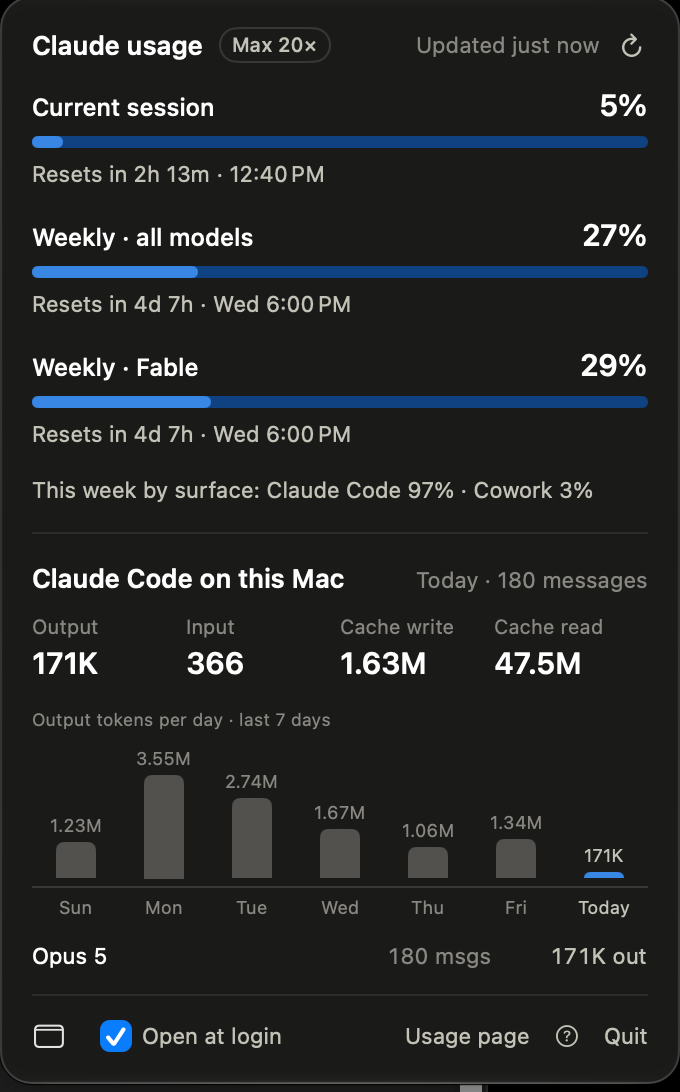
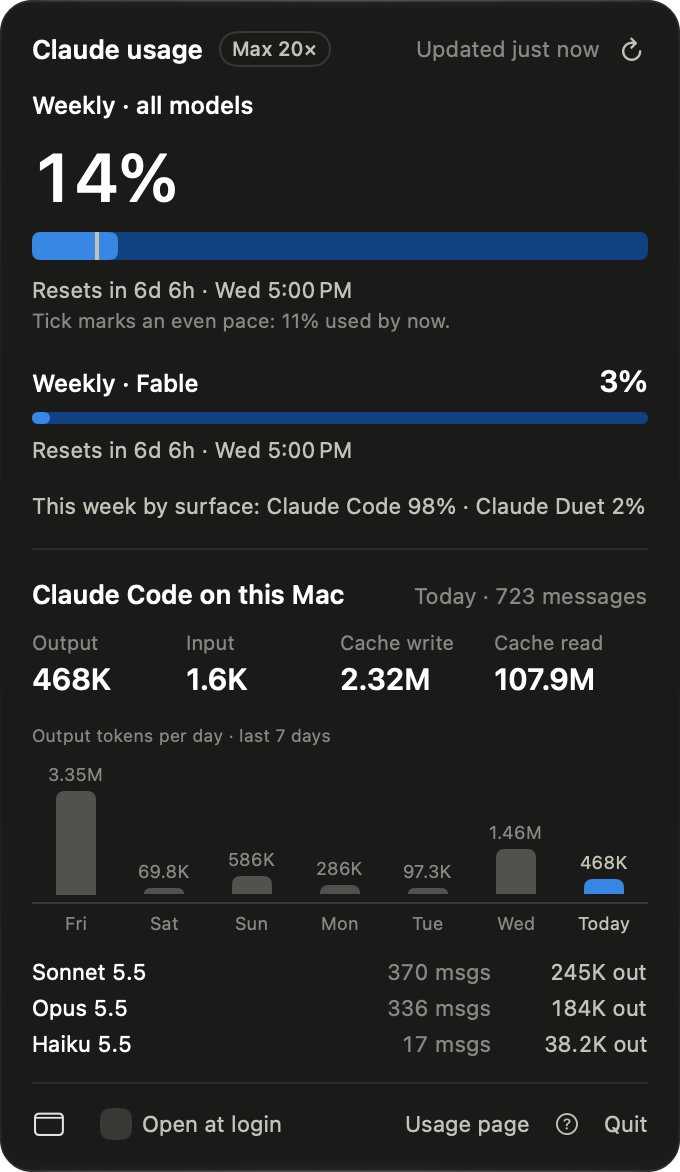
Harden token handling, logging and CI; add tests; fix early-week projection; refresh screenshots (#4)
* Harden token handling, logging and CI; add unit tests

- Validate a token (printable ASCII, no whitespace, <= 4 KB) before it can
  reach an Authorization header, for both pasted and Keychain tokens.
- Create the log owner-only (0600), tighten an existing one at launch, and
  serialize writes so concurrent writers can't interleave.
- Add Scripts/test.sh and Tests/main.swift: 48 checks over the usage maths,
  formatting, API decoding, severity fallbacks and token validation.
- CI: run the tests, build with -warnings-as-errors, assert the hardened
  runtime and absence of entitlements, pin actions to commit SHAs, and stop
  persisting the checkout credential.
- Replace deprecated Text + Text (macOS 26) so the build is warning-free.

* Hold the pace projection until a quarter of the week has passed; refresh screenshots

At 11% of the window elapsed, 14% used projected to 127% and warned "on track
to hit the limit before reset". A one-day burst says nothing about the week,
so the projection now starts at 25% elapsed; the even-pace tick still shows.

Screenshots in docs/ are recaptured from the running app with the weekly layout.

* CI: match the hardened-runtime flag for ad-hoc and Developer ID signatures

CI builds ad-hoc, where codesign prints flags=0x10002(adhoc,runtime); the
exact-string check only matched Developer ID builds and failed the job.

---------

diff --git a/Tests/main.swift b/Tests/main.swift
@@ -1,0 +1,115 @@
+import Foundation
+
+// Minimal assertion runner: top-level code, so no XCTest or package manager is needed.
+// Each failure is printed with its line; any failure makes the process exit non-zero.
+var failures = 0
+var checks = 0
+
+func expect(_ condition: @autoclosure () -> Bool, _ message: String = "", line: Int = #line) {
+    checks += 1
+    if !condition() {
+        failures += 1
+        print("FAIL line \(line): \(message)")
+    }
+}
+
+func limit(_ kind: String = "weekly_all", percent: Double, resetsIn: TimeInterval?, now: Date) -> PlanLimit {
+    PlanLimit(kind: kind, percent: percent, severity: nil,
+              resetsAt: resetsIn.map { now.addingTimeInterval($0) }, scope: nil)
+}
+
+let now = Date(timeIntervalSince1970: 1_800_000_000)
+let day: TimeInterval = 86_400
+
+// MARK: Token validation — nothing malformed may reach a header
+expect(Credentials.isWellFormed(token: "sk-ant-oat01-abcDEF_123-xyz"))
+expect(!Credentials.isWellFormed(token: ""))
+expect(!Credentials.isWellFormed(token: "abc def"), "space")
+expect(!Credentials.isWellFormed(token: "abc\r\nX-Injected: 1"), "CRLF header injection")
+expect(!Credentials.isWellFormed(token: "abc\ndef"), "newline")
+expect(!Credentials.isWellFormed(token: "tökén"), "non-ASCII")
+expect(Credentials.isWellFormed(token: String(repeating: "a", count: 4096)))
+expect(!Credentials.isWellFormed(token: String(repeating: "a", count: 4097)), "too long")
+
+// MARK: Pace and the weekly window
+let half = limit(percent: 50, resetsIn: 3.5 * day, now: now)
+expect(abs((half.elapsedFraction(now: now) ?? -1) - 0.5) < 1e-9, "half-way through the week")
+let halfPace = Pace(limit: half, now: now)
+expect(abs((halfPace?.expected ?? -1) - 50) < 1e-6)
+expect(abs((halfPace?.projected ?? -1) - 100) < 1e-6, "50% used at 50% elapsed projects to 100%")
+expect(halfPace?.isOver == true)
+
+let slow = Pace(limit: limit(percent: 10, resetsIn: 3.5 * day, now: now), now: now)
+expect(abs((slow?.projected ?? -1) - 20) < 1e-6)
+expect(slow?.isOver == false)
+expect(slow?.summary?.hasPrefix("Well under pace") == true, slow?.summary ?? "nil")
+
+// Early in the week the tick still shows, but a projection would be noise.
+let early = Pace(limit: limit(percent: 14, resetsIn: 6.2 * day, now: now), now: now)
+expect(early != nil && early?.projected == nil && early?.summary == nil && early?.isOver == false,
+       "a day-one burst must not warn that the limit will be hit")
+expect(abs((early?.expected ?? -1) - 11.43) < 0.1)
+expect(Pace(limit: limit(percent: 20, resetsIn: 5.2 * day, now: now), now: now)?.projected != nil,
+       "projection starts once a quarter of the week has passed")
+expect(limit(percent: 5, resetsIn: -60, now: now).elapsedFraction(now: now) == nil, "already reset")
+expect(limit(percent: 5, resetsIn: 8 * day, now: now).elapsedFraction(now: now) == nil, "reset further out than a week")
+expect(limit(percent: 5, resetsIn: nil, now: now).elapsedFraction(now: now) == nil, "no reset time")
+expect(limit("session", percent: 5, resetsIn: 2 * day, now: now).elapsedFraction(now: now) == nil, "not a weekly limit")
+
+// MARK: Formatting
+expect(shortRemaining(now.addingTimeInterval(4 * day + 3600), now: now) == "4d")
+expect(shortRemaining(now.addingTimeInterval(9 * 3600 + 60), now: now) == "9h")
+expect(shortRemaining(now.addingTimeInterval(30 * 60 + 5), now: now) == "30m")
+expect(shortRemaining(now.addingTimeInterval(-1), now: now) == nil)
+expect(shortRemaining(nil, now: now) == nil)
+expect(resetDescription(nil, now: now) == "No reset scheduled")
+expect(resetDescription(now.addingTimeInterval(-5), now: now) == "Resetting now")
+expect(resetDescription(now.addingTimeInterval(3 * day + 2 * 3600), now: now).hasPrefix("Resets in 3d 2h"))
+expect(compact(999) == "999")
+expect(compact(1_284) == "1.3K")
+expect(compact(2_652_134) == "2.65M")
+expect(percentText(12.5) == "13%" || percentText(12.5) == "12%")
+
+// MARK: Severity falls back to thresholds on unknown API values
+expect(Severity(api: nil, percent: 10) == .normal)
+expect(Severity(api: nil, percent: 85) == .warning)
+expect(Severity(api: nil, percent: 99) == .critical)
+expect(Severity(api: "something-new", percent: 99) == .critical)
+expect(Severity(api: "warning", percent: 1) == .warning, "the API's own severity wins")
+
+// MARK: API decoding
+let json = """
+{"limits":[
+  {"kind":"weekly_all","percent":13.0,"severity":"normal","resets_at":"2026-11-09T10:00:00.000Z"},
+  {"kind":"weekly_scoped","percent":3.0,"resets_at":"2026-11-09T10:00:00Z","scope":{"model":{"display_name":"Fable"}}}
+],"seven_day_breakdown":{"rows":[{"key":"claude_code","display_name":"Claude Code","percent":9.0}]}}
+"""
+if let response = try? UsageResponse.decoder.decode(UsageResponse.self, from: Data(json.utf8)) {
+    let limits = response.resolvedLimits
+    expect(limits.count == 2)
+    expect(limits.first?.title == "All models")
+    expect(limits.last?.title == "Fable")
+    expect(limits.last?.resetsAt != nil, "plain and fractional ISO dates both decode")
+    expect(response.sevenDayBreakdown?.rows.first?.displayName == "Claude Code")
+} else {
+    expect(false, "weekly-only response failed to decode")
+}
+
+let legacy = #"{"five_hour":{"utilization":40,"resets_at":"2026-11-05T20:00:00Z"},"seven_day":{"utilization":13,"resets_at":"2026-11-09T10:00:00Z"}}"#
+if let response = try? UsageResponse.decoder.decode(UsageResponse.self, from: Data(legacy.utf8)) {
+    expect(response.resolvedLimits.map(\.kind) == ["session", "weekly_all"], "older top-level windows still resolve")
+} else {
+    expect(false, "legacy response failed to decode")
+}
+expect((try? UsageResponse.decoder.decode(UsageResponse.self, from: Data("{}".utf8)))?.resolvedLimits.isEmpty == true,
+       "an empty response yields no limits rather than throwing")
+
+// MARK: Misc
+expect(ModelUsage(model: "claude-fable-5-1").displayName == "Fable 5.1")
+expect(ModelUsage(model: "claude-haiku-4-5-20251001").displayName == "Haiku 4.5")
+expect(MenuBarMode(rawValue: "both") == nil && MenuBarMode(rawValue: "session") == nil,
+       "stored pre-weekly modes must fail to decode so @AppStorage falls back to the default")
+expect(MenuBarMode(rawValue: "icon") == .icon, "icon-only preference survives")
+
+print(failures == 0 ? "OK: \(checks) checks passed" : "\(failures) of \(checks) checks failed")
+exit(failures == 0 ? 0 : 1)

diff --git a/Sources/Usage.swift b/Sources/Usage.swift
@@ -7,22 +7,31 @@ import Observation
 enum Log {
     private static let url = FileManager.default.homeDirectoryForCurrentUser
         .appendingPathComponent("Library/Logs/ClaudeUsage.log")
+    /// Writes arrive from the main actor and the transcript scanner at once; one queue keeps
+    /// their seek-then-write sequences from interleaving.
+    private static let queue = DispatchQueue(label: "ClaudeUsage.log")
 
     static func write(_ message: String) {
         guard let data = "\(Date().formatted(.iso8601)) \(message)\n".data(using: .utf8) else { return }
         FileHandle.standardError.write(data)
-        if let handle = try? FileHandle(forWritingTo: url) {
-            handle.seekToEndOfFile()
-            handle.write(data)
-            try? handle.close()
-        } else {
-            try? data.write(to: url)
+        queue.sync {
+            if let handle = try? FileHandle(forWritingTo: url) {
+                handle.seekToEndOfFile()
+                handle.write(data)
+                try? handle.close()
+            } else {
+                // Owner-only from the first byte: the log describes your usage, and other
+                // local accounts have no business reading it.
+                FileManager.default.createFile(atPath: url.path, contents: data, attributes: [.posixPermissions: 0o600])
+            }
         }
     }
 
+    /// Run at launch: drops an oversized log and tightens a log an earlier version left world-readable.
     static func trimIfLarge() {
         let size = (try? url.resourceValues(forKeys: [.fileSizeKey]))?.fileSize ?? 0
         if size > 1_000_000 { try? FileManager.default.removeItem(at: url) }
+        try? FileManager.default.setAttributes([.posixPermissions: 0o600], ofItemAtPath: url.path)
     }
 }
 
@@ -33,6 +42,14 @@ struct Credentials: Sendable {
     /// Which Keychain item the token came from. Worth tracking because the two age very
     /// differently: Claude Code renews its own token, while a pasted one just expires.
     enum Source: Sendable { case claudeCode, pasted }
+
+    /// A bearer token is printable ASCII with no whitespace. Anything else — a stray newline
+    /// from a bad paste, or a value from a tampered Keychain item — is refused before it can
+    /// reach a header, rather than relying on URLSession to sanitise it.
+    static func isWellFormed(token: String) -> Bool {
+        let bytes = token.utf8
+        return !bytes.isEmpty && bytes.count <= 4096 && bytes.allSatisfy { (0x21...0x7E).contains($0) }
+    }
 
     let accessToken: String
     let expiresAt: Date?
@@ -328,6 +345,10 @@ final class UsageStore {
     func savePastedToken(_ token: String) async -> SaveOutcome {
         let trimmed = token.trimmingCharacters(in: .whitespacesAndNewlines)
         guard !trimmed.isEmpty else { return .rejected("Paste a token first.") }
+        guard Credentials.isWellFormed(token: trimmed) else {
+            return .rejected("That doesn't look like a token: it has spaces, line breaks or unusual characters. "
+                             + "Copy just the accessToken value.")
+        }
 
         let previous = TokenStore.read()
         do {
@@ -402,6 +423,13 @@ final class UsageStore {
         if let expiry = credentials.expiresAt, expiry < Date() {
             status = .stale("Claude Code's login token has expired. Open Claude Code and it will renew it.")
             Log.write("token expired at \(expiry.formatted(.iso8601))")
+            return
+        }
+
+        guard Credentials.isWellFormed(token: credentials.accessToken) else {
+            lastReadError = .malformed
+            status = .failed(Credentials.ReadError.malformed.errorDescription ?? "Couldn't read the login.")
+            Log.write("token failed validation (\(credentials.source == .pasted ? "pasted" : "claude code"))")
             return
         }
 

diff --git a/Sources/Views.swift b/Sources/Views.swift
@@ -124,24 +124,28 @@ func shortRemaining(_ date: Date?, now: Date) -> String? {
 
 /// Compares usage so far with an even burn across the 7-day window.
 struct Pace {
-    let expected: Double   // % that would be used by now at an even pace
-    let projected: Double  // % at reset if the current rate continues
+    /// Below this much of the window, a rate extrapolated to the full week is mostly noise:
+    /// a burst on day one would read as "on track to hit the limit".
+    static let minElapsedForProjection = 0.25
+
+    let expected: Double    // % that would be used by now at an even pace
+    let projected: Double?  // % at reset if the current rate continues; nil too early to say
 
     init?(limit: PlanLimit, now: Date) {
-        // Too early in the window the rate is noise.
-        guard let elapsed = limit.elapsedFraction(now: now), elapsed >= 0.03 else { return nil }
+        guard let elapsed = limit.elapsedFraction(now: now) else { return nil }
         expected = elapsed * 100
-        projected = limit.percent / elapsed
+        projected = elapsed >= Self.minElapsedForProjection ? limit.percent / elapsed : nil
     }
 
-    var summary: String {
+    var summary: String? {
+        guard let projected else { return nil }
         if projected >= 100 { return "On track to hit the limit before reset" }
         if projected >= 85 { return "Heading for ~\(percentText(projected)) by reset" }
         return projected < 50 ? "Well under pace · ~\(percentText(projected)) by reset"
                               : "On pace · ~\(percentText(projected)) by reset"
     }
 
-    var isOver: Bool { projected >= 100 }
+    var isOver: Bool { (projected ?? 0) >= 100 }
 }
 
 // MARK: - Menu bar label
@@ -496,15 +500,17 @@ struct WeeklyHero: View {
                 Text(resetDescription(limit.resetsAt, now: now))
                     .foregroundStyle(Palette.ink2)
                 if let pace {
-                    HStack(spacing: 4) {
-                        if pace.isOver {
-                            Image(systemName: "exclamationmark.triangle.fill")
-                                .font(.system(size: 10))
-                                .foregroundStyle(Palette.serious)
+                    if let summary = pace.summary {
+                        HStack(spacing: 4) {
+                            if pace.isOver {
+                                Image(systemName: "exclamationmark.triangle.fill")
+                                    .font(.system(size: 10))
+                                    .foregroundStyle(Palette.serious)
+                            }
+                            Text(summary)
                         }
-                        Text(pace.summary)
+                        .foregroundStyle(pace.isOver ? Palette.ink : Palette.muted)
                     }
-                    .foregroundStyle(pace.isOver ? Palette.ink : Palette.muted)
                     Text("Tick marks an even pace: \(percentText(pace.expected)) used by now.")
                         .font(.system(size: 10))
                         .foregroundStyle(Palette.muted)

diff --git a/Sources/Welcome.swift b/Sources/Welcome.swift
@@ -139,11 +139,8 @@ struct WelcomeView: View {
             } else if let problem {
                 advice(for: problem)
             } else if !showingTokenField {
-                // Built from Text values rather than one interpolated string: concatenating
-                // Swift strings first would lose the markdown styling on "Always Allow".
-                (Text("macOS may ask for permission to read the Claude Code login. Choosing ")
-                 + Text("Always Allow").bold()
-                 + Text(" means it won't ask again."))
+                // A string literal, so Text parses the markdown; `Text + Text` is deprecated on macOS 26.
+                Text("macOS may ask for permission to read the Claude Code login. Choosing **Always Allow** means it won't ask again.")
                     .font(.system(size: 11))
                     .foregroundStyle(Palette.muted)
                     .fixedSize(horizontal: false, vertical: true)

diff --git a/CHANGELOG.md b/CHANGELOG.md
@@ -13,9 +13,22 @@ This project follows [Semantic Versioning](https://semver.org/spec/v2.0.0.html).
   countdown and a projection of where usage lands at reset. Per-model weekly limits sit below.
 
 ### Added
+- Refreshed `docs/popover.png` and `docs/menubar.png` for the weekly layout.
 - Menu bar option showing weekly percentage with days until reset.
+- Unit tests (`Scripts/test.sh`) for the usage maths, formatting, API decoding and token validation, run in CI.
+- CI verifies the hardened runtime and the absence of entitlements, builds with warnings as errors,
+  pins its actions to commit SHAs and no longer persists the checkout credential.
+
+### Security
+- A token is validated (printable ASCII, no whitespace, at most 4 KB) before it reaches a request
+  header, whether pasted or read from the Keychain.
+- The log file is created owner-only (`0600`); a log left world-readable by an earlier version is tightened at launch.
+- Log writes are serialized so concurrent writers can't interleave.
 
 ### Fixed
+- The pace projection no longer warns "on track to hit the limit" in the first quarter of the week,
+  where a one-day burst extrapolates to an alarming but meaningless figure. The even-pace tick still shows.
+- Deprecated `Text + Text` concatenation on macOS 26 replaced with a markdown literal.
 - Menu bar showed `– · N%` and the gauge icon stayed at zero when no session limit was returned.
 
 ## [1.0.0] — 2026-09-19

diff --git a/SECURITY.md b/SECURITY.md
@@ -9,7 +9,7 @@ about 1,300 lines of Swift in `Sources/`.
 | | |
 |---|---|
 | **Reads** | The Keychain item `Claude Code-credentials`; its own Keychain item `ClaudeUsage manual token`; `~/.claude/projects/**/*.jsonl` |
-| **Writes** | `~/Library/Logs/ClaudeUsage.log`; its own `UserDefaults`; its own Keychain item, and only when you paste a token in |
+| **Writes** | `~/Library/Logs/ClaudeUsage.log` (owner-only); its own `UserDefaults`; its own Keychain item, and only when you paste a token in |
 | **Network** | `GET https://api.anthropic.com/api/oauth/usage`, once per refresh |
 | **Never** | Refreshes, rotates or writes the token. Uploads transcripts. Opens a port. |
 
@@ -26,6 +26,10 @@ about 1,300 lines of Swift in `Sources/`.
 - **Redirects are refused** (`RefuseRedirects` in `Sources/Usage.swift`). Without this, a
   redirect would carry the `Authorization` header to whatever host it named.
 - The URL session is ephemeral: no disk cache, no cookies, TLS 1.2 minimum.
+- A token is checked before it goes anywhere near a request header: printable ASCII, no
+  whitespace, at most 4 KB. A malformed paste or a tampered Keychain item is refused, not sent.
+- `~/Library/Logs/ClaudeUsage.log` is created owner-only (`0600`), and an older world-readable
+  log is tightened at launch.
 
 ## Pasted tokens
 

diff --git a/README.md b/README.md
@@ -13,7 +13,7 @@ The same numbers as Claude Code's `/usage`, plus the tokens Claude Code has reco
 ![macOS 14+](https://img.shields.io/badge/macOS-14%2B-black?logo=apple)
 ![Universal](https://img.shields.io/badge/Universal-Apple%20silicon%20%2B%20Intel-black)
 
-<img src="docs/menubar.png" width="150" alt="Menu bar showing a gauge icon, 4% · 27%">
+<img src="docs/menubar.png" width="100" alt="Menu bar showing a gauge icon and the weekly usage, 14%">
 
 </div>
 
@@ -45,7 +45,7 @@ data comes from.
 
 ## What it shows
 
-<img src="docs/popover.png" width="330" align="right" alt="The popover: plan meters, token tiles, and a seven-day column chart">
+<img src="docs/popover.png" width="330" align="right" alt="The popover: a large weekly usage figure with an even-pace tick, the per-model weekly meter, token tiles, and a seven-day column chart">
 
 **Plan limits** — from `GET https://api.anthropic.com/api/oauth/usage`
 

diff --git a/CONTRIBUTING.md b/CONTRIBUTING.md
@@ -26,12 +26,16 @@ Without a Developer ID certificate the build signs ad-hoc, which is fine for loc
 ## Before opening a PR
 
 ```sh
+./Scripts/test.sh   # unit tests for the pure logic; add a case when you change it
 ./build.sh          # must build clean for both architectures
 codesign --verify --strict --deep build/ClaudeUsage.app
 ```
 
 Then run it and open the popover — there are no automated UI tests, so say in the PR what
 you exercised by hand.
+
+CI also builds with `-warnings-as-errors`, so a warning fails the PR. Run
+`SWIFTC_EXTRA_FLAGS=-warnings-as-errors ./build.sh` to see what CI will see.
 
 ## Changing the icon
 
